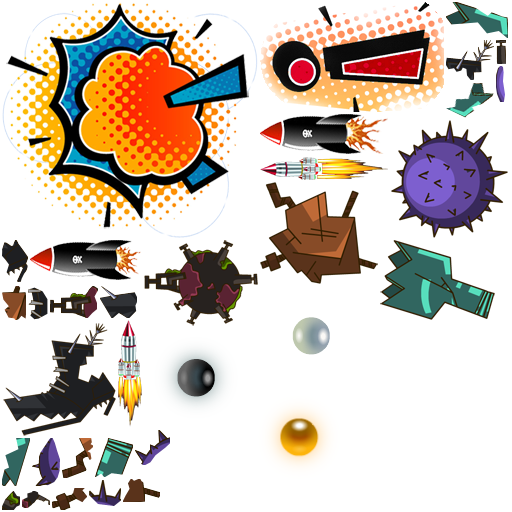
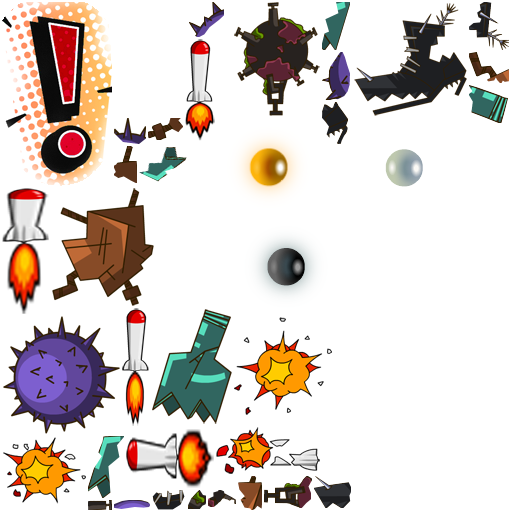
I

diff --git a/Classes/TSSpritePlayer.cpp b/Classes/TSSpritePlayer.cpp
@@ -64,6 +64,15 @@ TSSpritePlayer::TSSpritePlayer(CAStageLayer* player, const char* name) : CASprit
 	_posOffsetWhale = _settings().getPoint("offset_whale");
 	CAWorld::percent2view(_posOffsetWhale);
 
+	_fPlayerSpeedInPixel = _settings().getFloat("player_speed_in_percent");
+	CAWorld::percent2view(_fPlayerSpeedInPixel, true);
+	_fPlayerSpeedAcc = _settings().getFloat("player_speed_acc_in_distance");
+	_fPlayerSpeedMax = _settings().getFloat("player_speed_max_in_percent");
+	CAWorld::percent2view(_fPlayerSpeedMax, false);
+
+	_fPlayerSpeedJumpPower = _settings().getFloat("player_speed_jump_power");
+	CAWorld::percent2view(_fPlayerSpeedJumpPower, true);
+
 	this->setFreeSpeedMode();
 
 	this->setTouchable(true);
@@ -155,6 +164,7 @@ void TSSpritePlayer::_createBubbles(int c, bool bLow)
 	}
 }
 
+#if 0
 void TSSpritePlayer::setSpeedInfo(float fPlayerSpeedInPixel, float fPlayerSpeedAcc, float fPlayerSpeedMax, float fPlayerSpeedJumpPower)
 {
 	_fPlayerSpeedJumpPower = fPlayerSpeedJumpPower;
@@ -162,6 +172,7 @@ void TSSpritePlayer::setSpeedInfo(float fPlayerSpeedInPixel, float fPlayerSpeedA
 	_fPlayerSpeedAcc = fPlayerSpeedAcc;
 	_fPlayerSpeedMax = fPlayerSpeedMax;
 }
+#endif
 
 void TSSpritePlayer::_on_prepare(EStateFlag flag)
 {
@@ -247,6 +258,7 @@ float TSSpritePlayer::_updateVSpeedAndRotation(int index)
 		if (vSpeed < _climbing_v)
 		{
 			_Info("jump finished");
+			_vSpeedWhenTouched = _climbing_v;
 			_bJumping = false;
 		}
 	}

diff --git a/Classes/TSStagePlayLayerGamePlay.cpp b/Classes/TSStagePlayLayerGamePlay.cpp
@@ -271,16 +271,6 @@ void TSStagePlayLayerGamePlay::onStateBegin(CAState* from, void* param)
 	{
 		stage()->setOffset(CCPointZero, 0);
 
-		float fPlayerSpeedInPixel = _settings.getFloat("player_speed_in_percent");
-		CAWorld::percent2view(fPlayerSpeedInPixel, true);
-		float fPlayerSpeedAcc = _settings.getFloat("player_speed_acc_in_distance");
-		float fPlayerSpeedMax = _settings.getFloat("player_speed_max_in_percent");
-		CAWorld::percent2view(fPlayerSpeedMax, false);
-
-		float fPlayerSpeedJumpPower = _settings.getFloat("player_speed_jump_power");
-		CAWorld::percent2view(fPlayerSpeedJumpPower, true);
-
-		_player()->setSpeedInfo(fPlayerSpeedInPixel, fPlayerSpeedAcc, fPlayerSpeedMax, fPlayerSpeedJumpPower);
 		_player()->setState(PS_Dive);
 		_player()->setHMoveSpeed(0);
 		_player()->setVMoveSpeed(0);
@@ -580,7 +570,7 @@ void TSStagePlayLayerGamePlay::_checkBlockers()
 			if (psprPlayer->isCollidWith(pspr))
 			{
 				pspr->setState("dismiss");
-				int damage = 10;
+				int damage = 20;
 				_Info("missle HIT!!!");
 				_addCollected(-(damage*  _traceline_coin2pearl));
 			}

diff --git a/Classes/TSSpriteMissle.cpp b/Classes/TSSpriteMissle.cpp
@@ -42,6 +42,9 @@ void TSSpriteMissle::onStateChanged(const string& olds, const string& news)
 			_psprWarning->setState("dismiss");
 		}
 		//create some boooom effects
+		TSSpriteCommon* pspr = _createCommonSprite("missle_boom", "stand", this->getPos(), true, 1.2f);
+		pspr->setVertexZ(this->getVertexZ() + 0.2f);
+		_pLayer->addSprite(pspr);
 	}
 }
 
@@ -93,13 +96,14 @@ void TSSpriteMissle::onUpdate()
 		}
 	}
 	
+	float delta_angle = 7;
 	if (!_animRot.isValid())
 	{
 		float rotNew = _rotLast;
-		if (_rotLast > angle) rotNew = -16 + angle;
-		else rotNew = 16 + angle;
+		if (_rotLast > angle) rotNew = -delta_angle + angle;
+		else rotNew = delta_angle + angle;
 		//rotNew = angle;
-		_animRot.init(_pLayer->getTimeNow(), 0.12f, _rotLast, rotNew);
+		_animRot.init(_pLayer->getTimeNow(), 0.18f, _rotLast, rotNew);
 		_rotLast = rotNew;
 	}
 	else

diff --git a/Classes/TSSpritePlayer.h b/Classes/TSSpritePlayer.h
@@ -94,7 +94,7 @@ public:
 
 	virtual bool isCollidWith(CASprite* pspr, bool bView = true);
 	void ride(const string& rider);
-	void setSpeedInfo(float fPlayerSpeedInPixel, float fPlayerSpeedAcc, float fPlayerSpeedMax, float _fPlayerSpeedJumpPower);
+	//void setSpeedInfo(float fPlayerSpeedInPixel, float fPlayerSpeedAcc, float fPlayerSpeedMax, float _fPlayerSpeedJumpPower);
 	void setDistance4CalculatingHSpeed(float distance);
 
 	string debuglog() const;

diff --git a/Classes/TSSpriteBlocker.cpp b/Classes/TSSpriteBlocker.cpp
@@ -51,7 +51,7 @@ void TSSpriteBlocker::_on_state_event(EStateFlag flag)
 					CCPoint pos;
 					pos = this->getPos();
 
-					float ms = (CAUtils::Rand() * 80.0f + 60.0f) * size.width / 100.0f * 2.0f;
+					float ms = (CAUtils::Rand() * 80.0f + 60.0f) * size.width / 100.0f * 0.7f;
 					float dir = CAUtils::Rand() * 360.0f;
 					const string& mname = this->getModName();
 					pspr = _createCommonSprite(mname.c_str(), szPose, pos, true);
